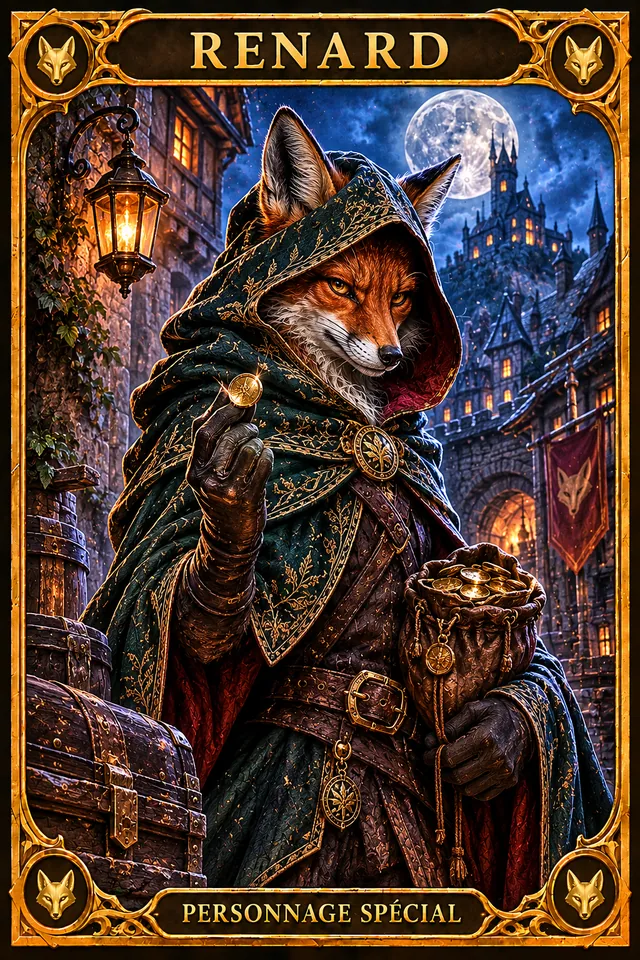
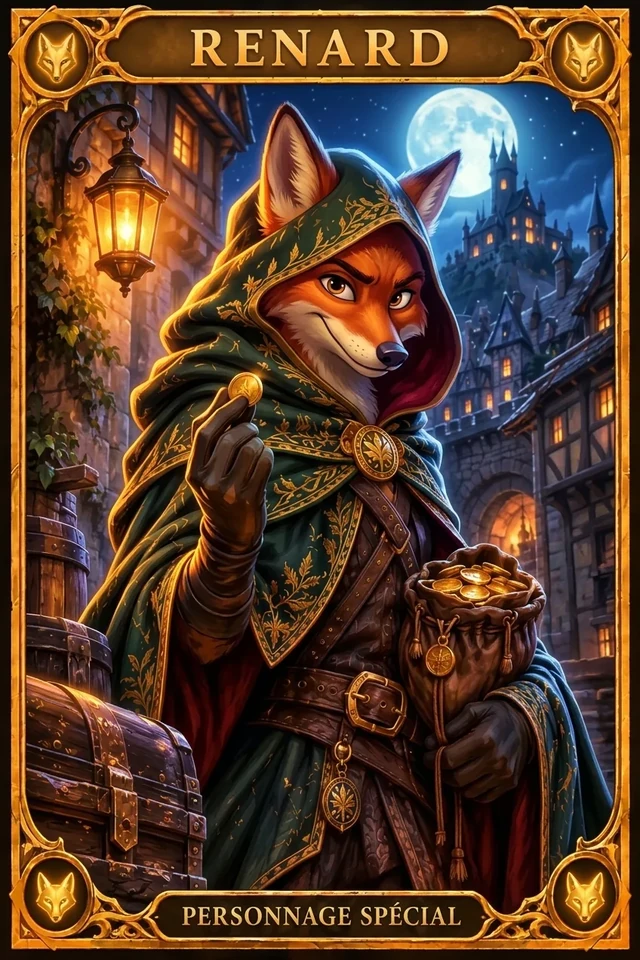
cluedo labels

diff --git a/src/app/console/[code]/page.tsx b/src/app/console/[code]/page.tsx
@@ -101,6 +101,7 @@ export default function ConsolePartie() {
   const iaVoulus = iaLocal ?? Number(salon?.options?.ia ?? 0);
   const ia = Math.min(iaVoulus, Math.max(0, max - humains)); // les humains sont prioritaires
   const total = humains + ia;
+  const enquete = salon?.jeu_code === 'archives';
   const modeNom = manifeste?.modes.find((m) => m.code === salon?.mode)?.nom ?? salon?.mode;
 
   async function changerIA(n: number) {
@@ -126,26 +127,26 @@ export default function ConsolePartie() {
             <div style={{ color: 'var(--doux)', fontSize: '.9rem' }}>Scanne le QR code ou va sur <strong style={{ color: 'var(--texte)' }}>{url.replace(/^https?:\/\//, '').split('?')[0]}</strong> et saisis le code.</div>
           </div>
           <div className="panneau">
-            <h2 style={{ fontSize: '1.4rem' }}>Au village : {humains} humain{humains > 1 ? 's' : ''}{ia > 0 ? ` + ${ia} IA` : ''}</h2>
+            <h2 style={{ fontSize: '1.4rem' }}>{enquete ? 'Aux Archives' : 'Au village'} : {humains} {enquete ? 'enquêteur' : 'humain'}{humains > 1 ? 's' : ''}{ia > 0 ? ` + ${ia} IA` : ''}</h2>
             <div className="joueurs-salle">
               {joueurs.filter((j) => !j.est_ia).map((j) => (
                 <div key={j.id} className="joueur-puce"><span className="avatar">{j.pseudo.slice(0, 1).toUpperCase()}</span>{j.pseudo}</div>
               ))}
-              {ia > 0 && <div className="joueur-puce"><span className="avatar">🤖</span>{ia} joueur{ia > 1 ? 's' : ''} IA</div>}
-              {humains === 0 && ia === 0 && <span style={{ color: 'var(--doux)' }}>En attente des premiers habitants…</span>}
+              {ia > 0 && <div className="joueur-puce"><span className="avatar">🤖</span>{ia} {enquete ? 'enquêteur' : 'joueur'}{ia > 1 ? 's' : ''} IA</div>}
+              {humains === 0 && ia === 0 && <span style={{ color: 'var(--doux)' }}>{enquete ? 'En attente des premiers enquêteurs…' : 'En attente des premiers habitants…'}</span>}
             </div>
 
             <div className="ligne-ia">
-              <div><strong>Joueurs IA</strong><small>Complètent la table. Prénoms aléatoires, jamais ceux des humains. {humains === 0 && ia > 0 ? 'Mode spectateur : la console joue seule.' : ''}</small></div>
+              <div><strong>{enquete ? 'Enquêteurs IA' : 'Joueurs IA'}</strong><small>{enquete ? 'Complètent la table. Prénoms aléatoires, jamais ceux des enquêteurs humains.' : 'Complètent la table. Prénoms aléatoires, jamais ceux des humains.'} {humains === 0 && ia > 0 ? 'Mode spectateur : la console joue seule.' : ''}</small></div>
               <CompteurIA valeur={iaVoulus} max={max} onChange={changerIA} />
             </div>
-            <p className="total-table">{total} joueur{total > 1 ? 's' : ''} · il en faut de {min} à {max}</p>
+            <p className="total-table">{total} {enquete ? 'enquêteur' : 'joueur'}{total > 1 ? 's' : ''} · il en faut de {min} à {max}</p>
             {ia < iaVoulus && <small style={{ color: 'var(--doux)' }}>Les humains sont prioritaires : {iaVoulus - ia} IA en trop seront retirées.</small>}
 
             {erreur && <div className="erreur">{erreur}</div>}
             {total < min && (
               <button className="btn btn-bloc" style={{ marginTop: '.8rem' }} onClick={() => changerIA(Math.max(0, min - humains))}>
-                🤖 Compléter avec {Math.max(0, min - humains)} joueur(s) IA
+                🤖 Compléter avec {Math.max(0, min - humains)} {enquete ? 'enquêteur(s)' : 'joueur(s)'} IA
               </button>
             )}
             <button className="btn btn-or btn-bloc btn-grand" style={{ marginTop: '.8rem' }} disabled={occupe || total < min} onClick={lancer}>

diff --git a/src/app/roles/page.tsx b/src/app/roles/page.tsx
@@ -2,12 +2,17 @@
 import { useMemo, useState } from 'react';
 import { Nav } from '@/components/Nav';
 import { CarteRole } from '@/components/CarteRole';
+import { CartePerso } from '@/components/CartePerso';
 import { CATALOGUE } from '@/lib/jeux/loupgarou/roles';
 import { CAMPS, ROLES_INFO } from '@/lib/jeux/loupgarou/roles-info';
+import { PERSOS } from '@/lib/jeux/archives/donnees';
 
 const FILTRES = [['tous', 'Tous'], ['village', 'Village'], ['loups', 'Loups'], ['solo', 'Solitaires']] as const;
+const JEUX = [['loupgarou', '🐺 Loup-Garou de Ravensburg'], ['archives', '🕵 CLUEDO : Les Archives du Temps']] as const;
 
+/** Les rôles dépendent du jeu : cartes de rôle pour le Loup-Garou, enquêteurs (personnages) pour CLUEDO. */
 export default function PageRoles() {
+  const [jeu, setJeu] = useState<string>('loupgarou');
   const [f, setF] = useState<string>('tous');
   const liste = useMemo(() => CATALOGUE.filter((r) => f === 'tous' || r.camp === f), [f]);
   return (
@@ -15,22 +20,47 @@ export default function PageRoles() {
       <div className="fond leger" />
       <Nav />
       <main className="conteneur section">
-        <div className="etiquette">Le grimoire</div>
-        <h2>Les {CATALOGUE.length} rôles de Ravensburg</h2>
         <div className="filtres">
-          {FILTRES.map(([k, nom]) => (
-            <button key={k} className={`puce filtre${f === k ? ' actif' : ''}`} onClick={() => setF(k)}>{nom}</button>
+          {JEUX.map(([k, nom]) => (
+            <button key={k} className={`puce filtre${jeu === k ? ' actif' : ''}`} onClick={() => setJeu(k)}>{nom}</button>
           ))}
         </div>
-        <div className="grille-roles">
-          {liste.map((r) => (
-            <div key={r.code} className="fiche-role">
-              <CarteRole code={r.code} />
-              <p><strong>{ROLES_INFO[r.code]?.emoji} {r.nom}</strong> · {CAMPS[r.camp]}</p>
-              <p>{ROLES_INFO[r.code]?.resume}</p>
+
+        {jeu === 'loupgarou' ? (
+          <>
+            <div className="etiquette">Le grimoire</div>
+            <h2>Les {CATALOGUE.length} rôles de Ravensburg</h2>
+            <div className="filtres">
+              {FILTRES.map(([k, nom]) => (
+                <button key={k} className={`puce filtre${f === k ? ' actif' : ''}`} onClick={() => setF(k)}>{nom}</button>
+              ))}
             </div>
-          ))}
-        </div>
+            <div className="grille-roles">
+              {liste.map((r) => (
+                <div key={r.code} className="fiche-role">
+                  <CarteRole code={r.code} />
+                  <p><strong>{ROLES_INFO[r.code]?.emoji} {r.nom}</strong> · {CAMPS[r.camp]}</p>
+                  <p>{ROLES_INFO[r.code]?.resume}</p>
+                </div>
+              ))}
+            </div>
+          </>
+        ) : (
+          <>
+            <div className="etiquette">Le dossier des Archives</div>
+            <h2>Les {PERSOS.length} enquêteurs des Archives du Temps</h2>
+            <p style={{ color: 'var(--doux)', maxWidth: 640 }}>Chaque enquêteur est aussi un suspect possible. Son pouvoir ne le désigne pas comme coupable : tout le monde peut être innocent.</p>
+            <div className="grille-roles">
+              {PERSOS.map((p) => (
+                <div key={p.code} className="fiche-role">
+                  <CartePerso code={p.code} />
+                  <p><strong>{p.nom}</strong> · {p.role}</p>
+                  <p><b>{p.pouvoir}</b> — {p.resume}</p>
+                </div>
+              ))}
+            </div>
+          </>
+        )}
       </main>
     </>
   );
